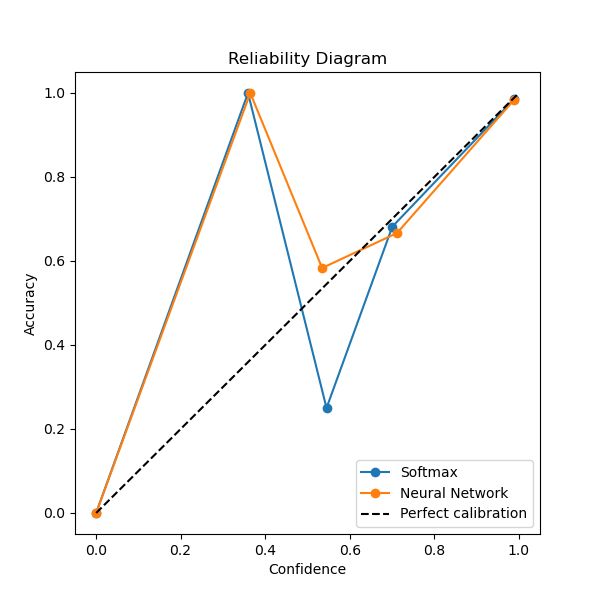
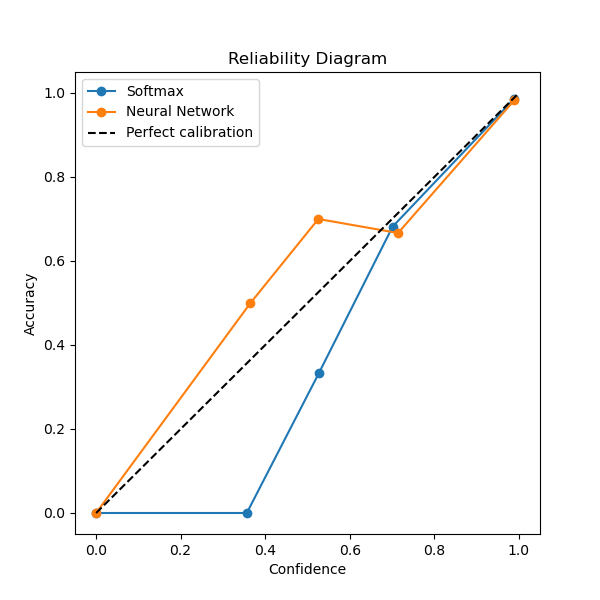
Readme file was added

diff --git a/README.md b/README.md
@@ -1,36 +1,166 @@
-# Math4AI Final Capstone
+# From Linear Scores to a Single Hidden Layer
+### Math4AI Capstone — National AI Center
 
-This repository contains the student-facing materials for the Math4AI final capstone.
+**Team:** Shahin Alakbarov, Murad Asgarov, Gurban Burjuzada, Davud Gurbanov
 
-## Start Here
+---
 
-- Assignment statement: [deliverables/math4ai_capstone_assignment.tex](deliverables/math4ai_capstone_assignment.tex)
-- Starter pack overview: [starter_pack/README.md](starter_pack/README.md)
-- Starter checklist: [starter_pack/CHECKLIST.md](starter_pack/CHECKLIST.md)
+## Project Overview
 
-## Repository Contents
+This project investigates a single question: *when does a one-hidden-layer neural network genuinely improve on a linear softmax classifier, and when is the added complexity unnecessary?*
 
-- `deliverables/math4ai_capstone_assignment.tex`: the official capstone handout
-- `starter_pack/data/`: fixed datasets and split indices
-- `starter_pack/scripts/`: deterministic data-preparation utilities
-- `starter_pack/report/template.tex`: optional report template
-- `starter_pack/src/`, `starter_pack/figures/`, `starter_pack/results/`, `starter_pack/slides/`: minimal scaffold directories for student work
+Both models are implemented entirely from scratch in NumPy — including forward passes, backpropagation, three optimizers, and a lightweight automatic differentiation engine (`lite_torch.py`). No PyTorch, TensorFlow, JAX, or scikit-learn model classes were used.
 
-## Starter-Pack Policy
+The models are evaluated across three datasets of increasing difficulty: a linearly separable Gaussian task, a nonlinear moons task, and a real-world handwritten digits benchmark.
 
-The starter pack is intentionally minimal. It includes:
+---
 
-- fixed digits features, labels, and split indices
-- deterministic split and synthetic-data scripts
-- a minimal repository skeleton
-- a short README and checklist
-- an optional report template
+## Requirements
 
-It does not include model code, training-loop scaffolding, optimizer implementations, or hidden solutions.
+Python 3.8 or higher is required. All dependencies are from the standard scientific Python stack:
 
-## Suggested First Steps
+```
+numpy
+matplotlib
+```
 
-1. Read the assignment statement.
-2. Review the starter-pack README and checklist.
-3. Clone the repository and create your working branches.
-4. Inspect the provided data files before writing model code.
+Install them with:
+
+```bash
+pip install numpy matplotlib
+```
+
+No other packages are needed.
+
+---
+
+## How to Reproduce All Experiments
+
+All scripts must be run from inside the `starter_pack/src/` directory.
+
+**Step 1 — Clone the repository**
+
+```bash
+git clone https://github.com/shahin1717/capstone
+cd capstone
+```
+
+**Step 2 — Run all core experiments**
+
+```bash
+cd starter_pack/src
+python run_experiments.py
+```
+
+This single command runs all five experiments in order:
+- Core model comparisons on all three datasets
+- Capacity ablation on moons (hidden widths 2, 8, 32)
+- Optimizer study on digits (SGD, Momentum, Adam)
+- Repeated-seed evaluation with 95% confidence intervals (5 seeds)
+- Failure case analysis (width-2 network on moons)
+
+All figures are saved to `starter_pack/figures/` and a JSON summary of all numerical results is saved to `starter_pack/results/summary.json`.
+
+**Step 3 — Run Track B confidence and reliability analysis**
+
+```bash
+python track_b_analysis.py
+```
+
+This trains both models on digits and produces the reliability diagram and correct-vs-wrong confidence analysis. The figure is saved to `starter_pack/figures/reliability_diagram.png`.
+
+**Step 4 — Run implementation sanity checks (optional)**
+
+```bash
+python sanity_check.py
+```
+
+This runs gradient checking via finite differences, loss-decrease verification on small batches, and an overfitting test on a tiny subset. It confirms that backpropagation and parameter updates are correct.
+
+---
+
+## Dataset Files
+
+All datasets are provided as `.npz` files in `starter_pack/data/` and are loaded automatically by the scripts. Do not move or rename them.
+
+| File | Description |
+|---|---|
+| `linear_gaussian.npz` | Synthetic two-class Gaussian blobs |
+| `moons.npz` | Synthetic two-class nonlinear crescents |
+| `digits_data.npz` | 8×8 handwritten digit images (64-dimensional, scaled to [0,1]) |
+| `digits_split_indices.npz` | Fixed train / validation / test split indices for digits |
+
+---
+
+## Hyperparameters and Configuration
+
+All hyperparameters are defined in `config.py` and match the experimental protocol exactly as specified in the project handout. No hyperparameter search was performed beyond what the protocol requires.
+
+| Parameter | Value |
+|---|---|
+| Hidden width (default) | 32 |
+| L2 regularization λ | 1e-4 |
+| Batch size | 64 |
+| Max epochs | 200 |
+| SGD learning rate | 0.05 |
+| Momentum learning rate | 0.05 |
+| Momentum coefficient | 0.9 |
+| Adam learning rate | 0.001 |
+| Adam β1, β2, ε | 0.9, 0.999, 1e-8 |
+| Number of seeds | 5 |
+| 95% CI t-critical (df=4) | 2.776 |
+
+---
+
+## Source Files
+
+| File | Purpose |
+|---|---|
+| `lite_torch.py` | Custom autograd engine — Tensor class with dynamic computation graph and reverse-mode autodiff |
+| `neural_network.py` | One-hidden-layer network with tanh activations and softmax output |
+| `softmax.py` | Softmax regression baseline model |
+| `optimizers.py` | SGD, Momentum, and Adam optimizers with L2 weight decay |
+| `train.py` | Training loop, evaluation, checkpointing |
+| `data_loader.py` | Dataset loading utilities |
+| `onehot.py` | One-hot encoding helper |
+| `config.py` | All hyperparameters in one place |
+| `run_experiments.py` | Orchestrates all five experiments and saves figures and results |
+| `track_b_analysis.py` | Track B: confidence, entropy, and reliability analysis |
+| `sanity_check.py` | Gradient checking and implementation verification |
+
+---
+
+## Output Files
+
+After running the scripts, the following files are produced:
+
+**Figures (`starter_pack/figures/`)**
+- `decision_boundary_linear_gaussian.png` — decision boundaries on the Gaussian task
+- `decision_boundary_moons.png` — decision boundaries on the moons task
+- `digits_training_curves.png` — training and validation loss/accuracy curves for digits
+- `capacity_ablation_moons.png` — decision boundaries for widths 2, 8, 32
+- `optimizer_study_digits.png` — training curves for SGD, Momentum, and Adam
+- `repeated_seeds_digits.png` — bar chart of 5-seed means with 95% CI
+- `failure_case_moons.png` — width-2 failure case with boundary and loss curve
+- `reliability_diagram.png` — calibration plot for both models on digits
+
+**Results (`starter_pack/results/`)**
+- `summary.json` — all numerical results from every experiment in JSON format
+
+---
+
+## Key Results Summary
+
+| Dataset | Softmax Accuracy | NN Accuracy | Notes |
+|---|---|---|---|
+| Linear Gaussian | **95.0%** | 93.75% | Linear model is sufficient |
+| Moons | 85.0% | **93.75%** | Hidden layer necessary |
+| Digits (Adam, 5 seeds) | 91.6% ± 9.8% | **95.3% ± 0.5%** | NN more accurate and more stable |
+
+The neural network outperforms softmax regression on nonlinear tasks but requires an adaptive optimizer (Adam) to train reliably on the digits benchmark. SGD and Momentum fail on digits due to poor conditioning in the 64-dimensional input space.
+
+---
+
+## Notes on Reproducibility
+
+All random seeds are set explicitly via `np.random.seed()` before each model initialization and training run. Results should be fully reproducible across machines given the same NumPy version. The digits train/validation/test split is fixed by the provided index file and is never modified by any script.
